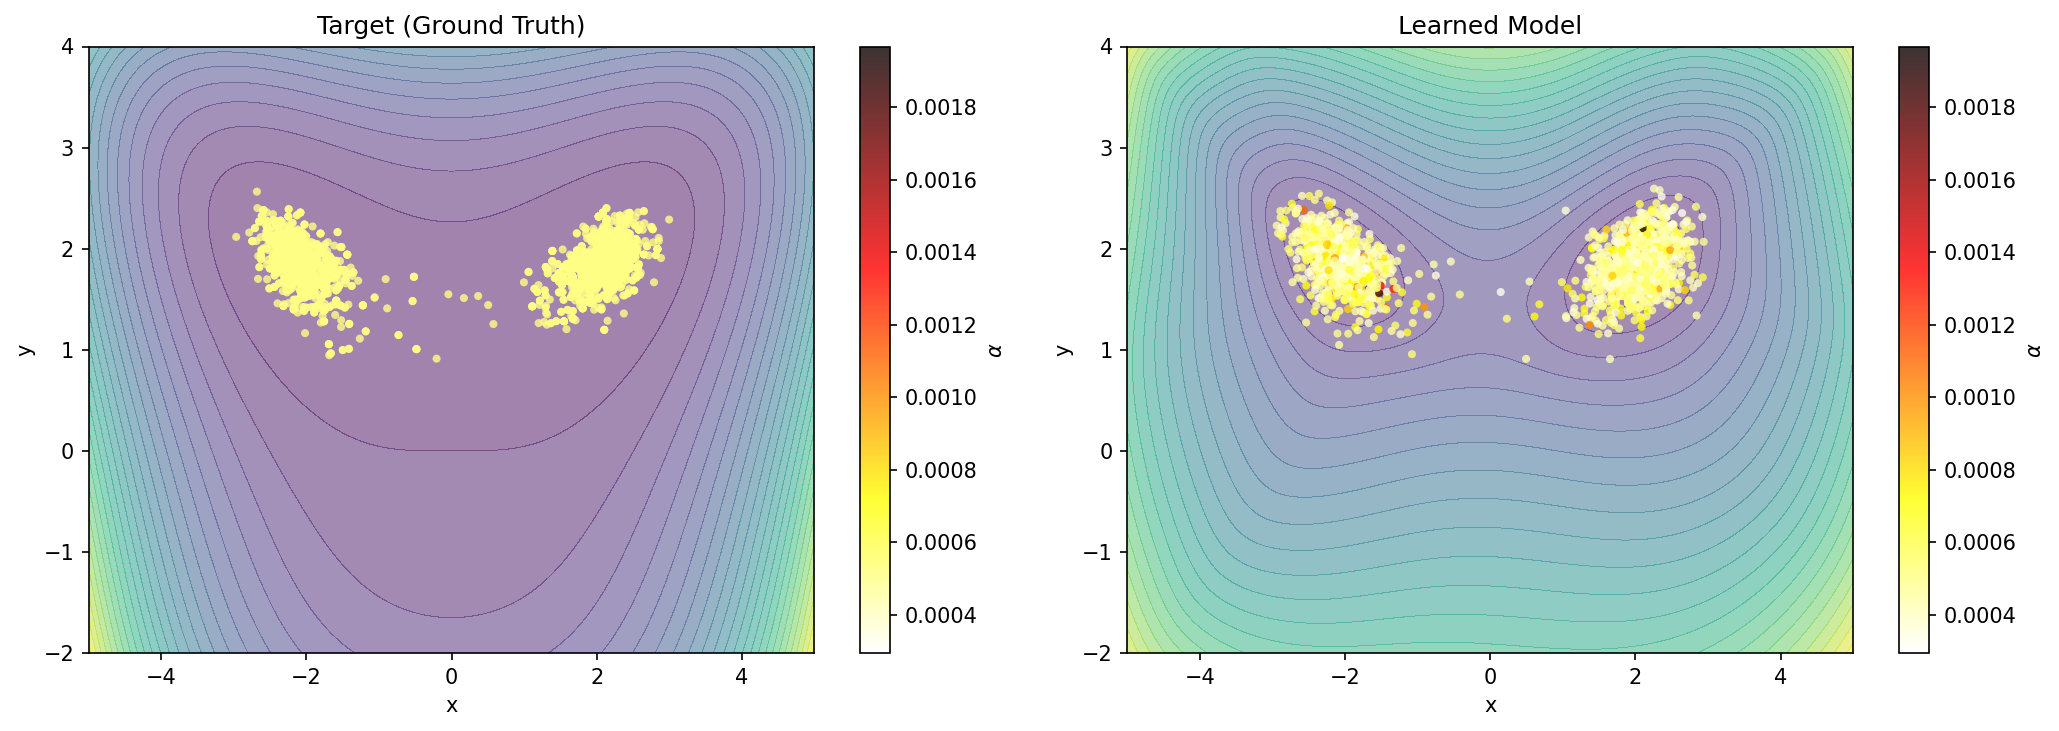
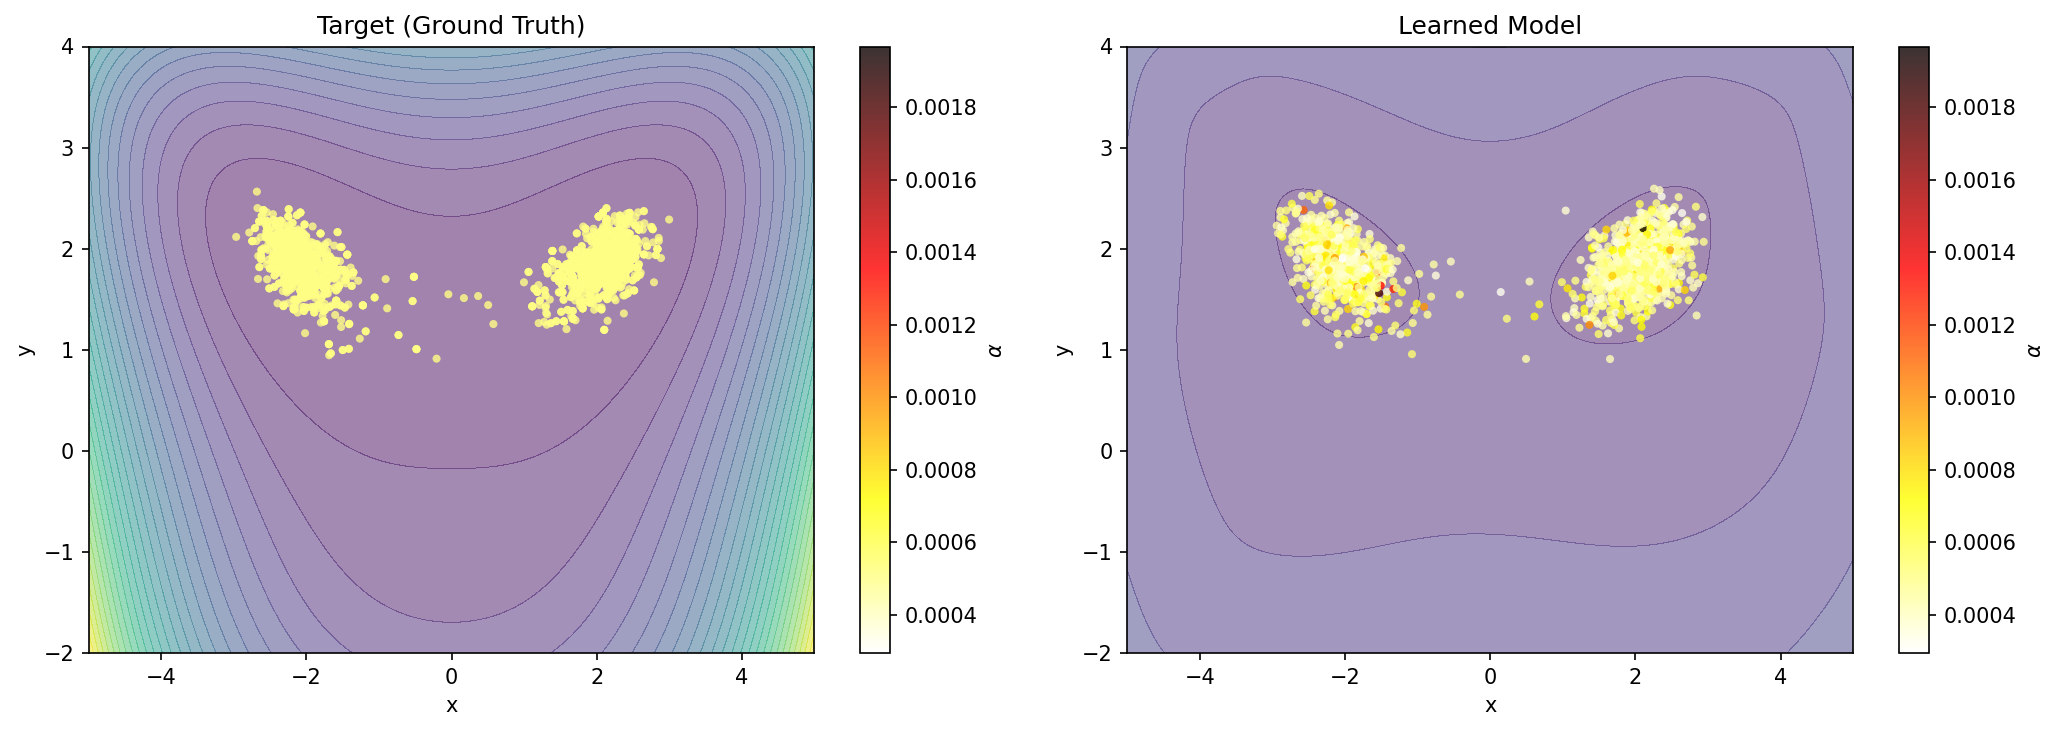
Add tanh-bounded proliferation output and reduce training for laptop
- ProliferationNN: tanh(raw) * beta_max bounds R to [-3, +3], preventing
  exp(S) weight explosion that collapses ESS and kills MMD gradients
- Reduce to 500 particles, 800 epochs, patience=300 for fast laptop iteration
- Save trained model to trained_model.eqx for replotting without retraining
- Updated comparison.png with shared potential colorscale

diff --git a/models/proliferation.py b/models/proliferation.py
@@ -9,12 +9,17 @@ class ProliferationNN(eqx.Module):
 
     Architecture: (d_latent + d_signal) -> 16 -> 16 -> 1
     Hidden activation: softplus
-    Output: unconstrained (positive = proliferation, negative = apoptosis)
+    Output: tanh-bounded to [-beta_max, +beta_max]
+
+    The tanh bound prevents exp(S) weight explosion during SDE integration.
+    Without it, an unconstrained R=20 at any location causes exp(20)~5e8,
+    collapsing ESS to ~1 and destroying the MMD gradient signal.
     """
     layers: list
     d_signal: int = eqx.field(static=True)
+    beta_max: float = eqx.field(static=True)
 
-    def __init__(self, key, d_latent=2, d_signal=0):
+    def __init__(self, key, d_latent=2, d_signal=0, beta_max=3.0):
         keys = jax.random.split(key, 3)
         d_in = d_latent + d_signal
         self.layers = [
@@ -23,11 +28,12 @@ class ProliferationNN(eqx.Module):
             eqx.nn.Linear(16, 1, key=keys[2]),
         ]
         self.d_signal = d_signal
+        self.beta_max = beta_max
 
     def __call__(self, z, s=None):
         """
         z: (d_latent,), s: (d_signal,) or None
-        Returns: scalar proliferation rate R
+        Returns: scalar proliferation rate R in [-beta_max, +beta_max]
         """
         if self.d_signal > 0 and s is not None:
             x = jnp.concatenate([z, s])
@@ -35,4 +41,5 @@ class ProliferationNN(eqx.Module):
             x = z
         for layer in self.layers[:-1]:
             x = jax.nn.softplus(layer(x))
-        return jnp.squeeze(self.layers[-1](x))
+        raw_output = jnp.squeeze(self.layers[-1](x))
+        return jnp.tanh(raw_output) * self.beta_max

diff --git a/models/__init__.py b/models/__init__.py
@@ -23,13 +23,14 @@ def create_model(
     sigma_init=1.0,
     use_tilt=False,
     state_dependent_noise=False,
+    beta_max=3.0,
 ):
     """Factory function to create a WaddingtonModel with all sub-modules."""
     k1, k2, k3, k4 = jax.random.split(key, 4)
 
     potential = PotentialNN(k1, d_latent=d_latent, c_conf=c_conf)
     tilt = TiltLinear(k2, d_signal=max(d_signal, 1), d_latent=d_latent) if use_tilt else None
-    proliferation = ProliferationNN(k3, d_latent=d_latent, d_signal=d_signal)
+    proliferation = ProliferationNN(k3, d_latent=d_latent, d_signal=d_signal, beta_max=beta_max)
 
     if state_dependent_noise:
         noise = NoiseNN(k4, d_latent=d_latent)

diff --git a/train.py b/train.py
@@ -47,7 +47,7 @@ PROLIF_PARAMS = {
 SNAPSHOT_TIMES = [0.0, 1.0, 2.0, 3.0]
 
 DT = 0.005
-N_PARTICLES = 2000
+N_PARTICLES = 500
 
 LOSS_CONFIG = {
     'lam_mass': 1.0,
@@ -112,11 +112,11 @@ model, history = train(
     optimizer=optimizer,
     dt=DT,
     loss_config=LOSS_CONFIG,
-    n_epochs=2000,
+    n_epochs=800,
     key=jax.random.PRNGKey(42),
     use_fresh_keys=True,
-    print_every=100,
-    patience=500,
+    print_every=50,
+    patience=300,
 )
 
 sigma_learned = float(jnp.exp(model.noise.log_sigma))
